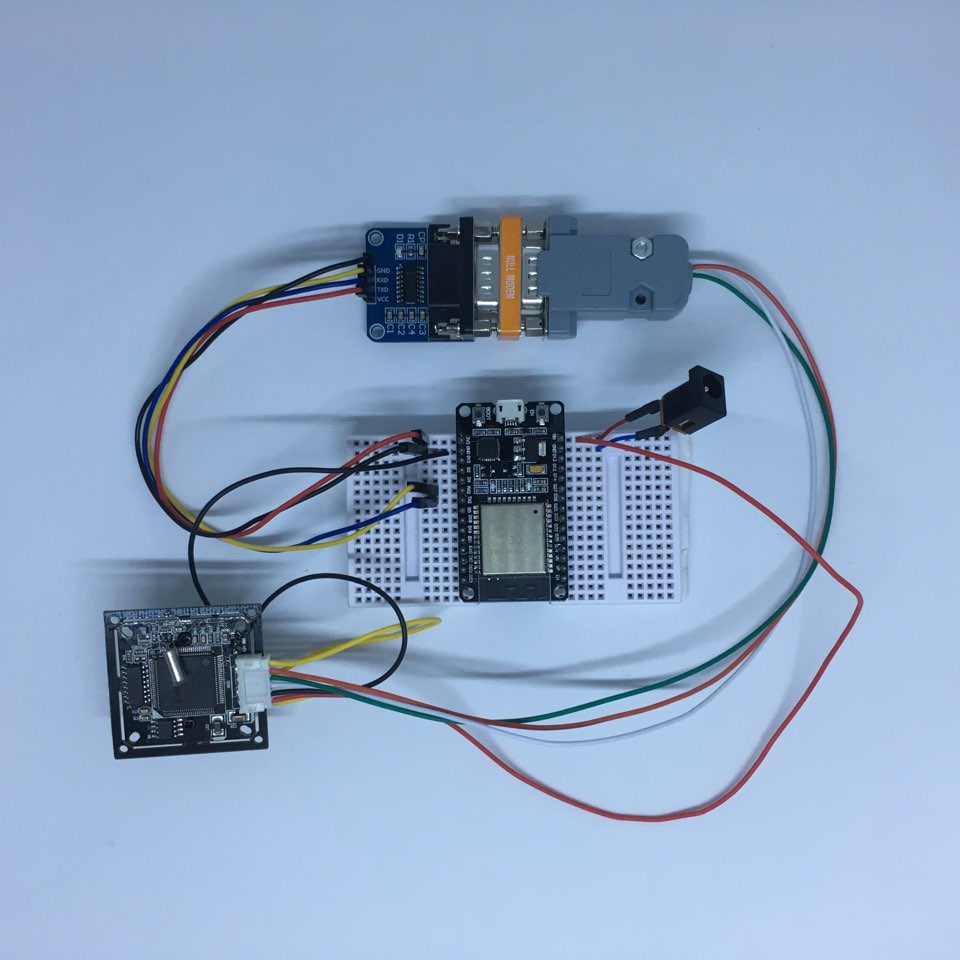
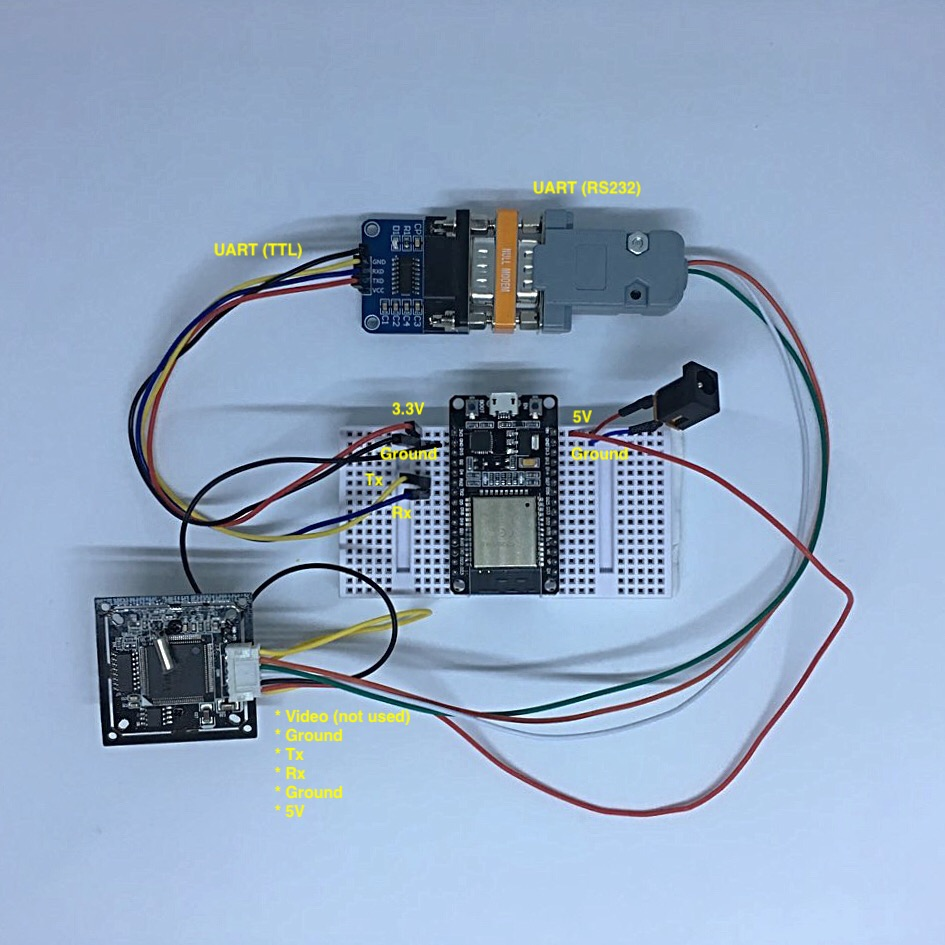
CS-258 Fixed for new data format for jpeg. Updated wiring image.

Changed region(s): [[0.0921, 0.1841, 0.9206, 0.8899]]

diff --git a/VC0706/main.cpp b/VC0706/main.cpp
@@ -42,7 +42,7 @@ const char *rootCA = \
 #define IOTOWN_NID   "WF1" // replace with your node ID
 
 Timer timerTakePicture;
-Timer timerKeyInput;
+Timer timerCamera;
 Timer temp;
 
 ESP32Serial Serial2(ESP32Serial::PORT2, 17, 16);
@@ -53,9 +53,11 @@ uint16_t seq = 0;
 int i=0;
 char keyBuf[128];
 
-static void eventOnPictureTaken(const char *buf, uint32_t size)
-{
-  printf("ReadImage Done : %ld (BYTE)\n", camera.imageSize );
+static void eventOnPictureTaken(const char *buf, uint32_t size) {
+  struct timeval now;
+  gettimeofday(&now, NULL);
+
+  printf("[%ld.%06ld] ReadImage Done : %u (BYTE)\n", now.tv_sec, now.tv_usec, camera.imageSize);
   uint32_t index = 0;
 
   String encoded = base64::encode((uint8_t *) buf, size);
@@ -63,19 +65,15 @@ static void eventOnPictureTaken(const char *buf, uint32_t size)
   while(encoded.indexOf('\n',index) != -1){
     index = encoded.indexOf('\n',index);
     encoded.remove(index,1);
-    System.feedWatchdog();
   }
 
   jsonData = "{\"type\":\"2\",\"token\":\"";
   jsonData += IOTOWN_TOKEN;
   jsonData += "\",\"nid\":\"";
   jsonData += IOTOWN_NID;
-  jsonData += "\",\"data\":{\"cam1\":\"";
-  for(uint32_t i=0;i<encoded.length();i++){
-    System.feedWatchdog();
-    jsonData += encoded[i];
-  }
-  jsonData += "\"}}";
+  jsonData += "\",\"data\":{\"cam1\":{\"type\":\"image/jpeg\",\"raw\":\"";
+  jsonData += encoded;
+  jsonData += "\"}}}";
 
   if (jsonData.length() == 0) {
     printf("* Report data is not ready.\n");
@@ -88,30 +86,36 @@ static void eventOnPictureTaken(const char *buf, uint32_t size)
     http.addHeader("Content-Type", "application/json");
     int responseCode = http.POST(jsonData);
 
+    gettimeofday(&now, NULL);
+
     if (responseCode == HTTP_CODE_OK) {
+      printf("[%ld.%06ld] POST success: ", now.tv_sec, now.tv_usec);
       http.writeToStream(&Serial);
       Serial.println();
-      Serial.flush();
     } else {
-      printf("- POST failed (error:%s)\n", http.errorToString(responseCode).c_str());
+      printf(
+        "[%ld.%06ld] POST failed (error:%s)\n",
+        now.tv_sec, now.tv_usec,
+        http.errorToString(responseCode).c_str()
+      );
       http.end();
     }
   } else {
     printf("* WiFi is not connected.\n");
   }
 
-  timerKeyInput.startOneShot(10000);
+  timerCamera.startOneShot(10000);
 }
 
-void eventRatioKeyInputDone(void *)
-{
-  printf("\nTake a picture\n" );
+void taskTakePicture(void *) {
+  struct timeval now;
+  gettimeofday(&now, NULL);
+  printf("\n[%ld.%06ld] Take a picture\n", now.tv_sec, now.tv_usec);
   Serial.stopListening();
   camera.takePicture(eventOnPictureTaken, camera.ratio);
 }
 
-static void eventRatioKeyInput(SerialPort &)
-{
+static void eventRatioKeyInput(SerialPort &) {
   uint8_t numOctets = strlen(keyBuf);
   numOctets /= 2;
   char strOctet[3];
@@ -122,12 +126,11 @@ static void eventRatioKeyInput(SerialPort &)
 
     camera.ratio = strtoul(strOctet, NULL, 16);
   }
-  timerKeyInput.startOneShot(5000);
+  timerCamera.startOneShot(5000);
 }
 
-static void eventKeyInput(SerialPort &)
-{
-  timerKeyInput.stop();
+static void eventKeyInput(SerialPort &) {
+  timerCamera.stop();
 
   while (Serial.available() > 0) {
     Serial.read();
@@ -136,13 +139,11 @@ static void eventKeyInput(SerialPort &)
   Serial.onReceive(eventRatioKeyInput);
   Serial.inputKeyboard(keyBuf, sizeof(keyBuf) - 1);
   Serial.println(
-    "* Enter a new compression ratio as a hexadecimal string "
-    "[00~FF]"
+    "* Enter a new compression ratio as a hexadecimal string. [00~FF]"
   );
 }
 
-static void eventWiFi(WiFiClass::event_id_t event, void *info)
-{
+static void eventWiFi(WiFiClass::event_id_t event, void *info) {
   printf("* WiFi event(%d): ", event);
 
   switch (event) {
@@ -164,8 +165,8 @@ static void eventWiFi(WiFiClass::event_id_t event, void *info)
 
     Serial.println("* Press ansy key to enter a compression ratio in 5 seconds..." );
     Serial.onReceive(eventKeyInput);
-    timerKeyInput.onFired(eventRatioKeyInputDone,NULL);
-    timerKeyInput.startOneShot(5000);
+    timerCamera.onFired(taskTakePicture, NULL);
+    timerCamera.startOneShot(5000);
     Serial.listen();
     break;
 
@@ -179,8 +180,7 @@ static void eventWiFi(WiFiClass::event_id_t event, void *info)
   }
 }
 
-void setup()
-{
+void setup() {
   Serial.begin(115200);
   camera.begin();
   Serial.println("\n\t***** VC0706 camera test *****" );
